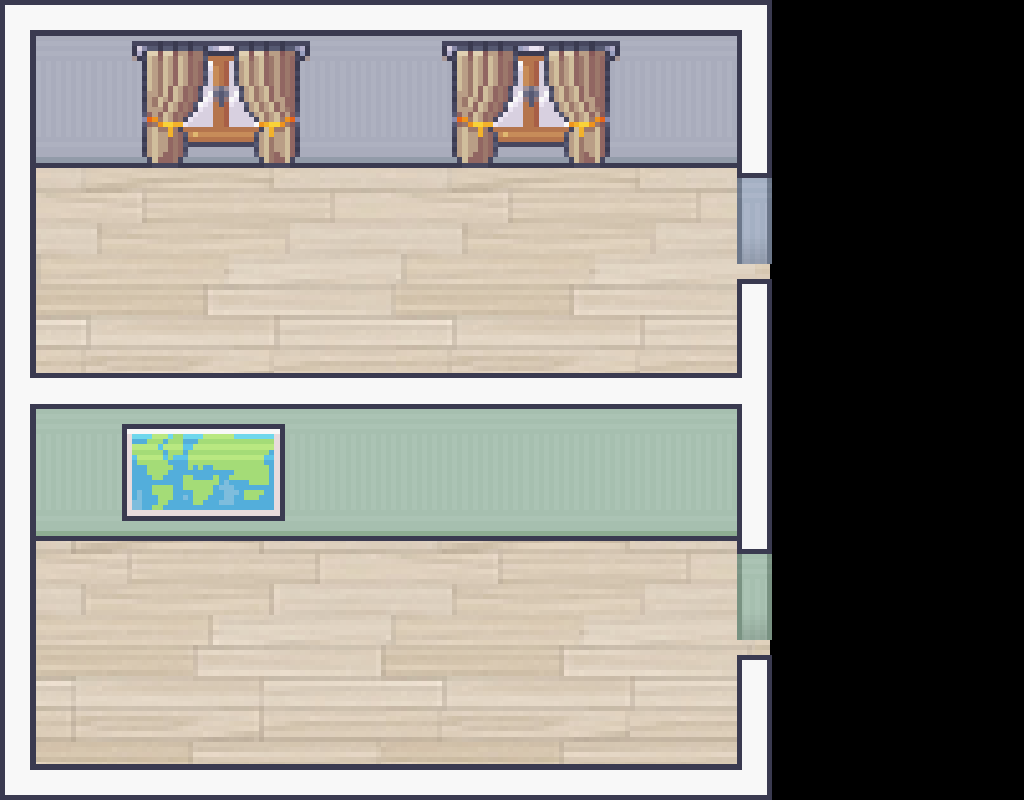
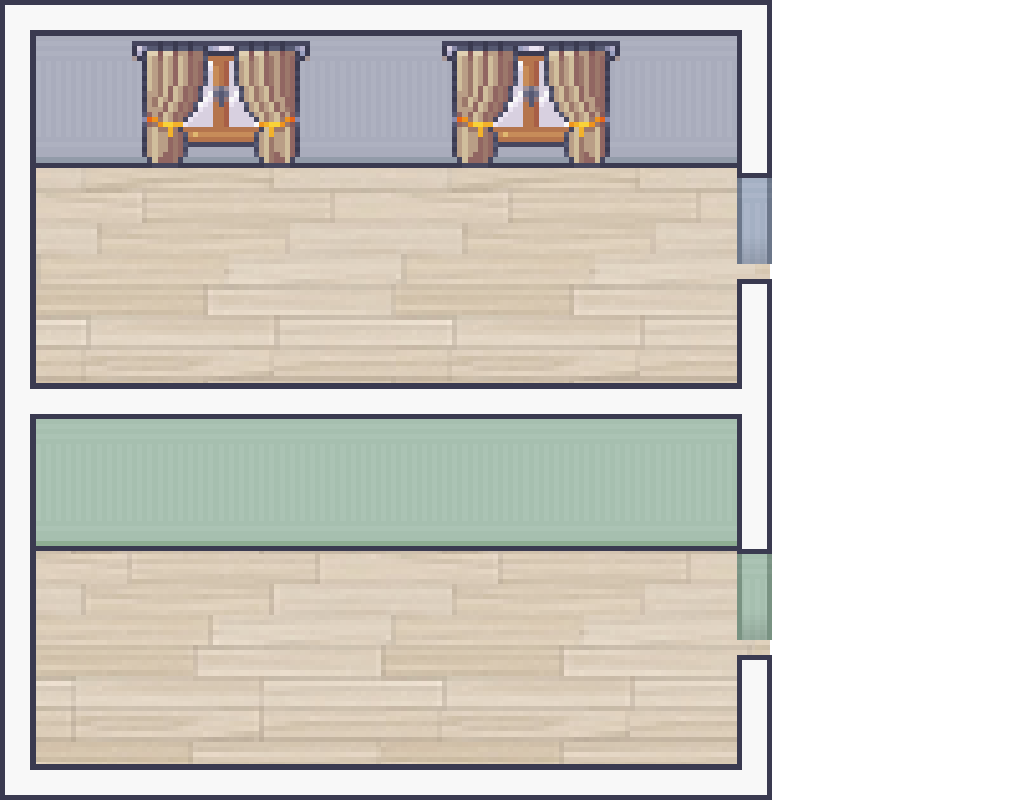
Modified background Images
Made both rooms equal in size

diff --git a/Animals.java b/Animals.java
@@ -44,7 +44,7 @@ public abstract class Animals extends SuperSmoothMover
         }
     
         if (bounced) {
-            movementDirection = (movementDirection + Greenfoot.getRandomNumber(30) - 15 + 360) % 360; // add randomness
+            getRandomDirection(60); // add randomness
             movementDirectionInRadians = Math.toRadians(movementDirection);
             updateDyDx();
     
